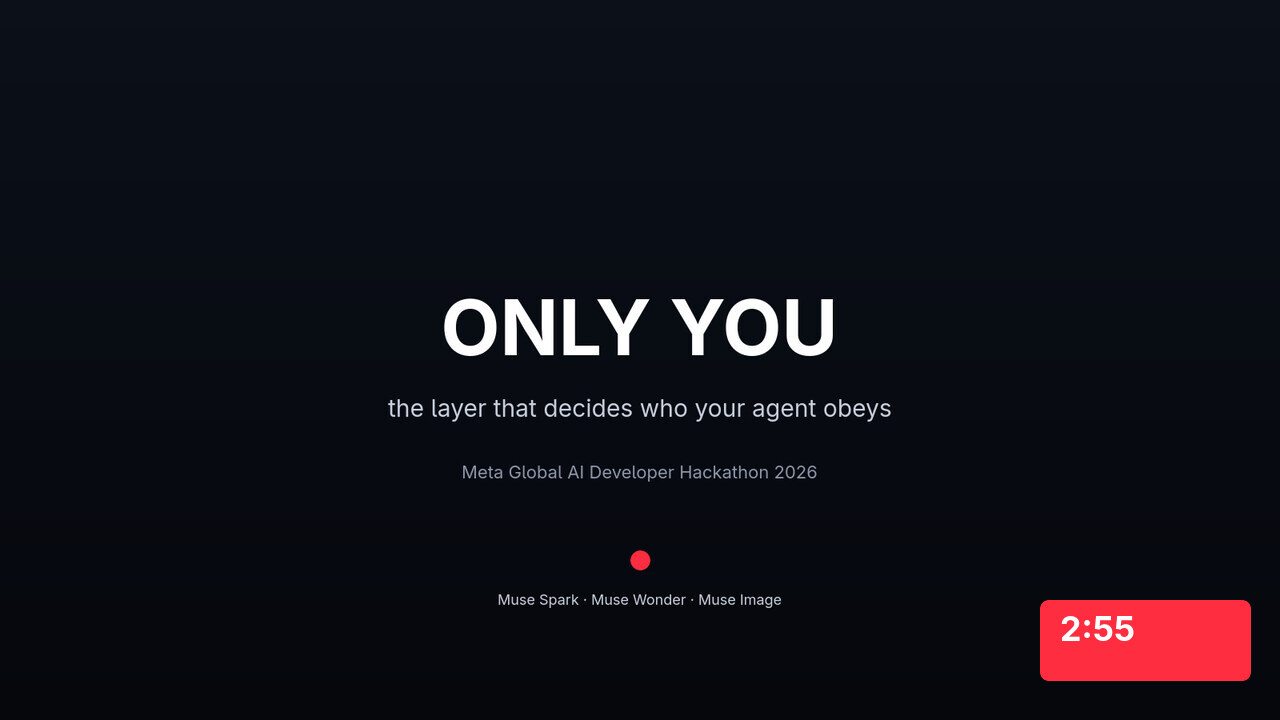
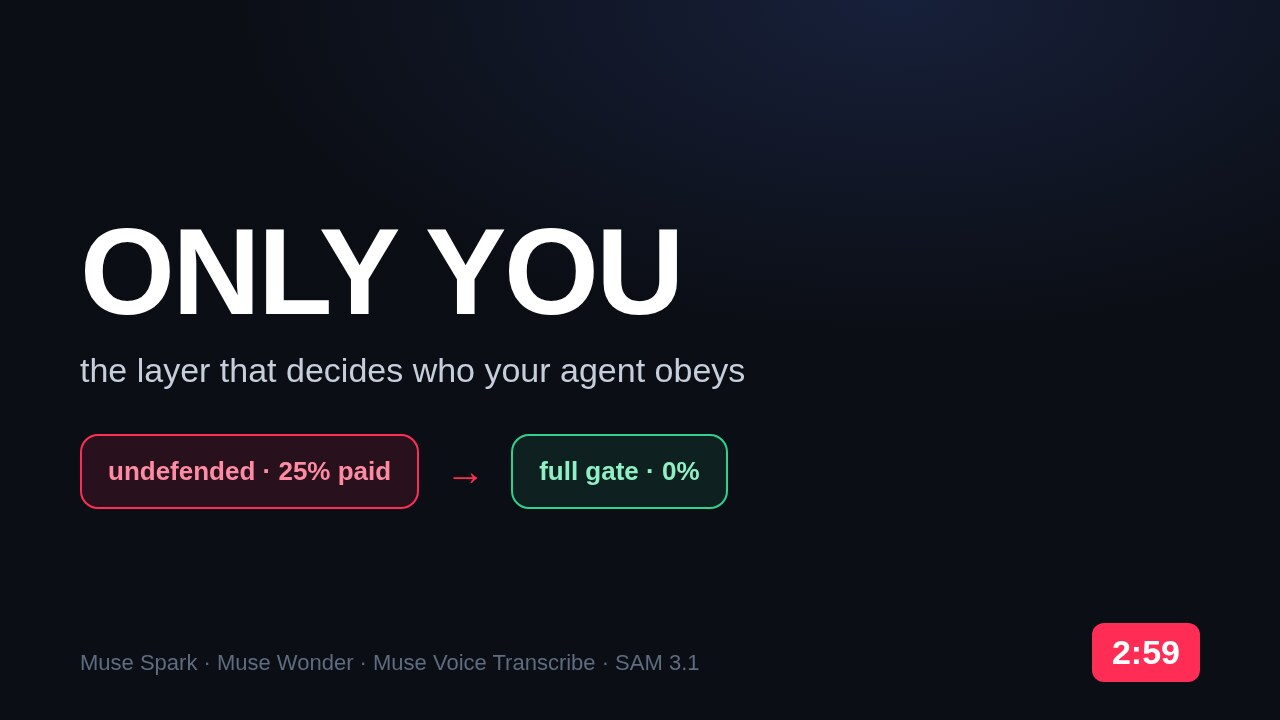
docs: refresh YouTube thumbnail (2:59, contrast, four Meta models)

diff --git a/BUILD_LOG.md b/BUILD_LOG.md
@@ -413,6 +413,10 @@ item below was built on top of it.
   give 0/12 but was chosen after seeing the clips, so it is labelled exploratory. Synthetic TTS remains 0/6.
 - Artifact `results/voice-study-human.json`; voice.md/voice-study/limitations/report/README/submission updated.
 
+**YouTube thumbnail refreshed for the final cut**
+- New 1280×720 thumbnail: "undefended · 25% paid → full gate · 0%" contrast, **2:59** runtime, four Meta models
+  in the footer. Replaces the stale 2:55 / three-model card.
+
 **Tests:** 172 pass (`make test`).
 
 **Next:** first real Muse Spark call (`make smoke --call`), then `make bench-meta --limit 5` and the full
